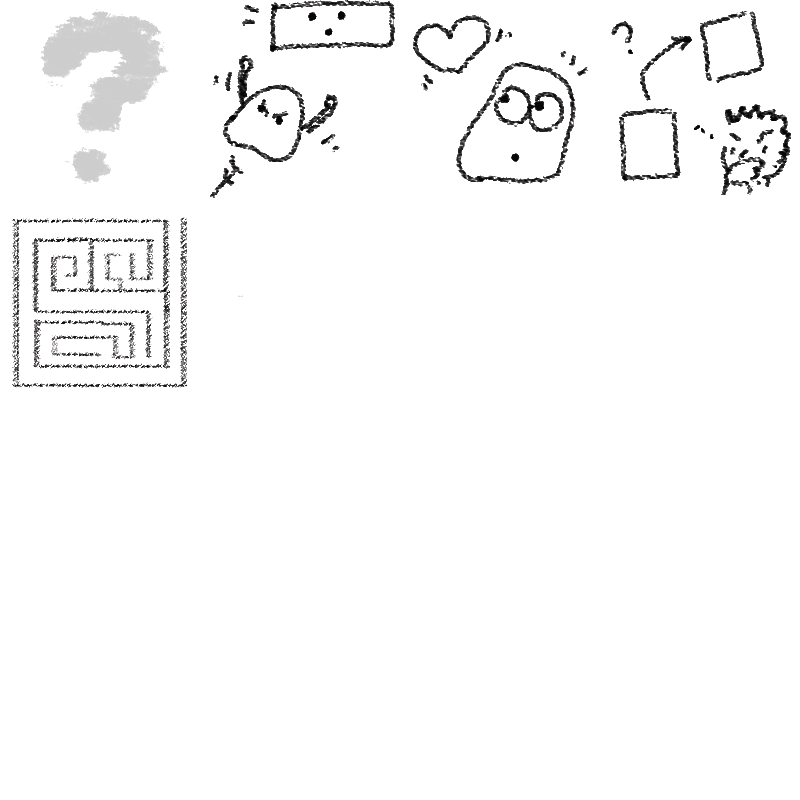
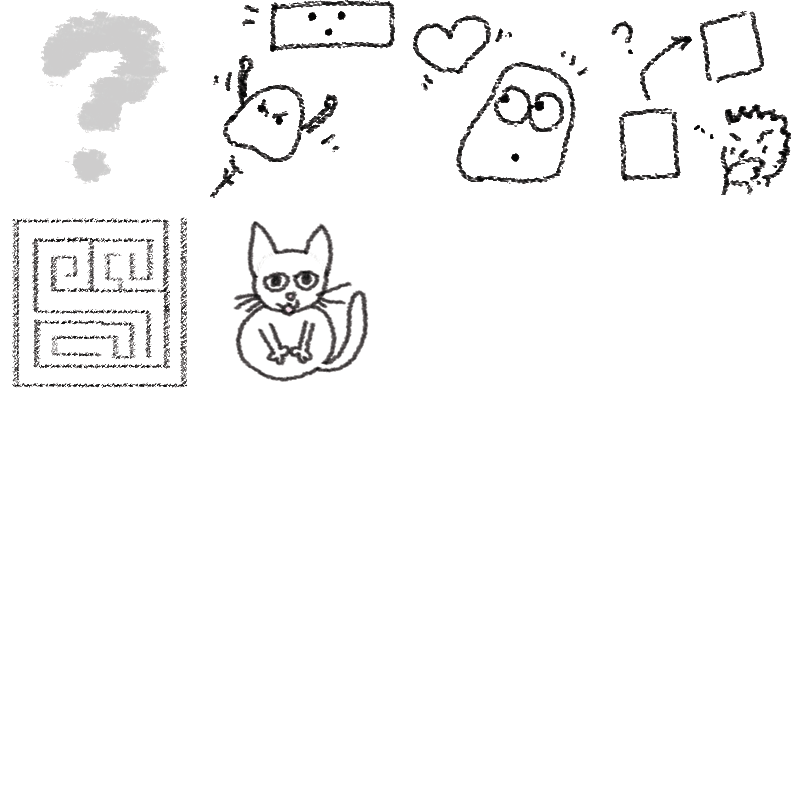
Basis of 5th game: a kitten generator and maybe a game using the generator.

Changed region(s): [[0.2812, 0.2812, 0.4688, 0.5]]

diff --git a/5_kitty_generator/index.html b/5_kitty_generator/index.html
@@ -7,16 +7,17 @@
         <meta http-equiv="Content-Type" content="text/html; charset=utf-8" />
         <meta http-equiv="Content-Language" content="en" />
         <link href="../common/style.css" rel="stylesheet" type="text/css" />
+        <script type="text/javascript" src="../common/jquery-1.7.1.min.js"></script>
+        <script type="text/javascript" src="kitten.js"></script>
     </head>
     <body>
         <div id="global-wrap" class="laby-2">
             <h1>
-                Arkabloid
+                Kitten's eye
             </h1>
             <p>
-                Break all the eyed-bricks to see the cutest win screen ever.
-                Move the blob-trampoline to make the jumbing blob jump all around the area.
-                If your jumping blob falls on the ground, hit X so that it will jump in a random direction.
+                Find the model kitten in the kitten table as fast as you can.<br />
+                If you don't want to, you can simply look at these incredibly cute felines to pass time.
             </p>
             <div id="topMenu">
                 <a href="../index.html">A simple memory</a>
@@ -36,8 +37,6 @@
                 <a href="../5_kitty_generator/index.html">Kitten's eye</a>
             </div>
         </div>
-        <script type="text/javascript" src="../common/melonJS-0.9.2-min.js"></script>
-        <script type="text/javascript" src="main.js"></script>
     </body>
 </html>
 

diff --git a/1_index_memory/memory.js b/1_index_memory/memory.js
@@ -8,19 +8,21 @@ var myGame = function($, undefined) {
         var justfound = false;
         var found = [];
         var available = [
-                'titi', 'tata', 'toto', 'maze'
+                'titi', 'tata', 'toto', 'maze', 'meaow'
             ];
         var names = {
             titi: 'A simple memory',
             tata: 'A chewing-gum and some hearts',
             toto: 'Arkabloid',
-            maze: 'Amazing blob maze'
+            maze: 'Amazing blob maze',
+            meaow: 'Kitten‘s eye'
         };
         var links = {
             titi: 'index.html',
             tata: '2_simple_laby/index.html',
             toto: '3_arkabloid/index.html',
-            maze: '4_true_laby/index.html'
+            maze: '4_true_laby/index.html',
+            meaow: '5_kitty_generator/index.html'
         }
         // Public game object
         var game = {

diff --git a/4_true_laby/index.html b/4_true_laby/index.html
@@ -22,6 +22,7 @@
                 <a href="../2_simple_laby/index.html">A chewing-gum and some hearts</a>
                 <a href="../3_arkabloid/index.html">Arkabloid</a>
                 <a href="../4_true_laby/index.html">Amazing blob maze</a>
+                <a href="../5_kitty_generator/index.html">Kitten's eye</a>
             </div>
             <div id="jsapp"></div>
         </div>
@@ -31,6 +32,7 @@
                 <a href="../2_simple_laby/index.html">A chewing-gum and some hearts</a>
                 <a href="../3_arkabloid/index.html">Arkabloid</a>
                 <a href="../4_true_laby/index.html">Amazing blob maze</a>
+                <a href="../5_kitty_generator/index.html">Kitten's eye</a>
             </div>
         </div>
         <script type="text/javascript" src="../common/melonJS-0.9.2-min.js"></script>

diff --git a/2_simple_laby/index.html b/2_simple_laby/index.html
@@ -19,6 +19,7 @@
                 <a href="../2_simple_laby/index.html">A chewing-gum and some hearts</a>
                 <a href="../3_arkabloid/index.html">Arkabloid</a>
                 <a href="../4_true_laby/index.html">Amazing blob maze</a>
+                <a href="../5_kitty_generator/index.html">Kitten's eye</a>
             </div>
             <div id="jsapp"></div>
         </div>
@@ -28,6 +29,7 @@
                 <a href="../2_simple_laby/index.html">A chewing-gum and some hearts</a>
                 <a href="../3_arkabloid/index.html">Arkabloid</a>
                 <a href="../4_true_laby/index.html">Amazing blob maze</a>
+                <a href="../5_kitty_generator/index.html">Kitten's eye</a>
             </div>
         </div>
         

diff --git a/common/style.css b/common/style.css
@@ -77,7 +77,7 @@ a:hover {
     margin-bottom: 47px;
 }
 #topMenu, #botMenu {
-    height: 25px;
+    min-height: 25px;
     line-height: 25px;
     text-align: center;
 }
@@ -90,7 +90,7 @@ a:hover {
     line-height: 25px;
     padding: 0 13px;
     text-decoration: none;
-    margin-right: 5px;
+    margin: 2px 2px 2px 0;
     border-bottom: none;
 }
 #topMenu a:hover, #botMenu a:hover {
@@ -140,6 +140,9 @@ a:hover {
 }
 .memory-1 #theGame table td.turned.maze {
     background-position: 0 -200px;
+}
+.memory-1 #theGame table td.turned.meaow {
+    background-position: -200px -200px;
 }
 .memory-1 .cheat {
     font-size: 11px;

diff --git a/5_kitty_generator/kitten.js b/5_kitty_generator/kitten.js
@@ -1,0 +1,6 @@
+/* 
+ * To change this template, choose Tools | Templates
+ * and open the template in the editor.
+ */
+
+
